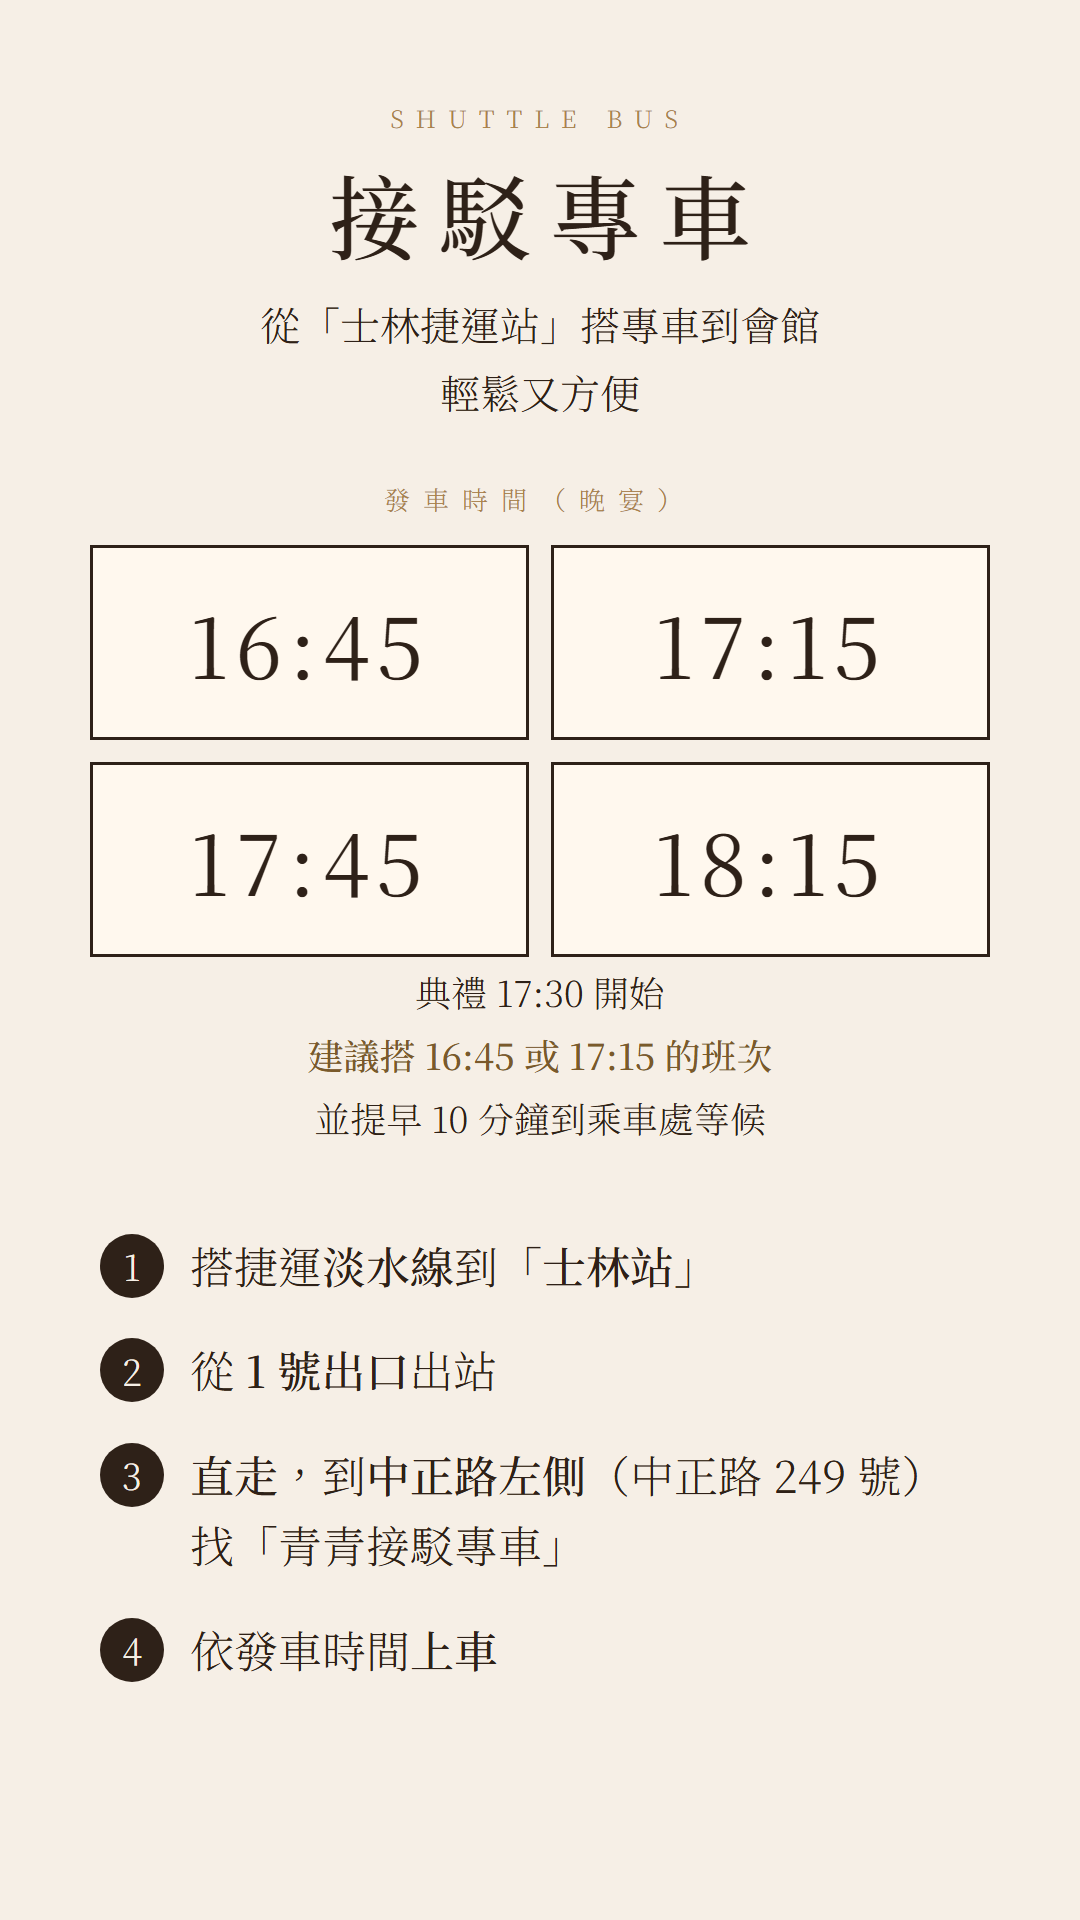
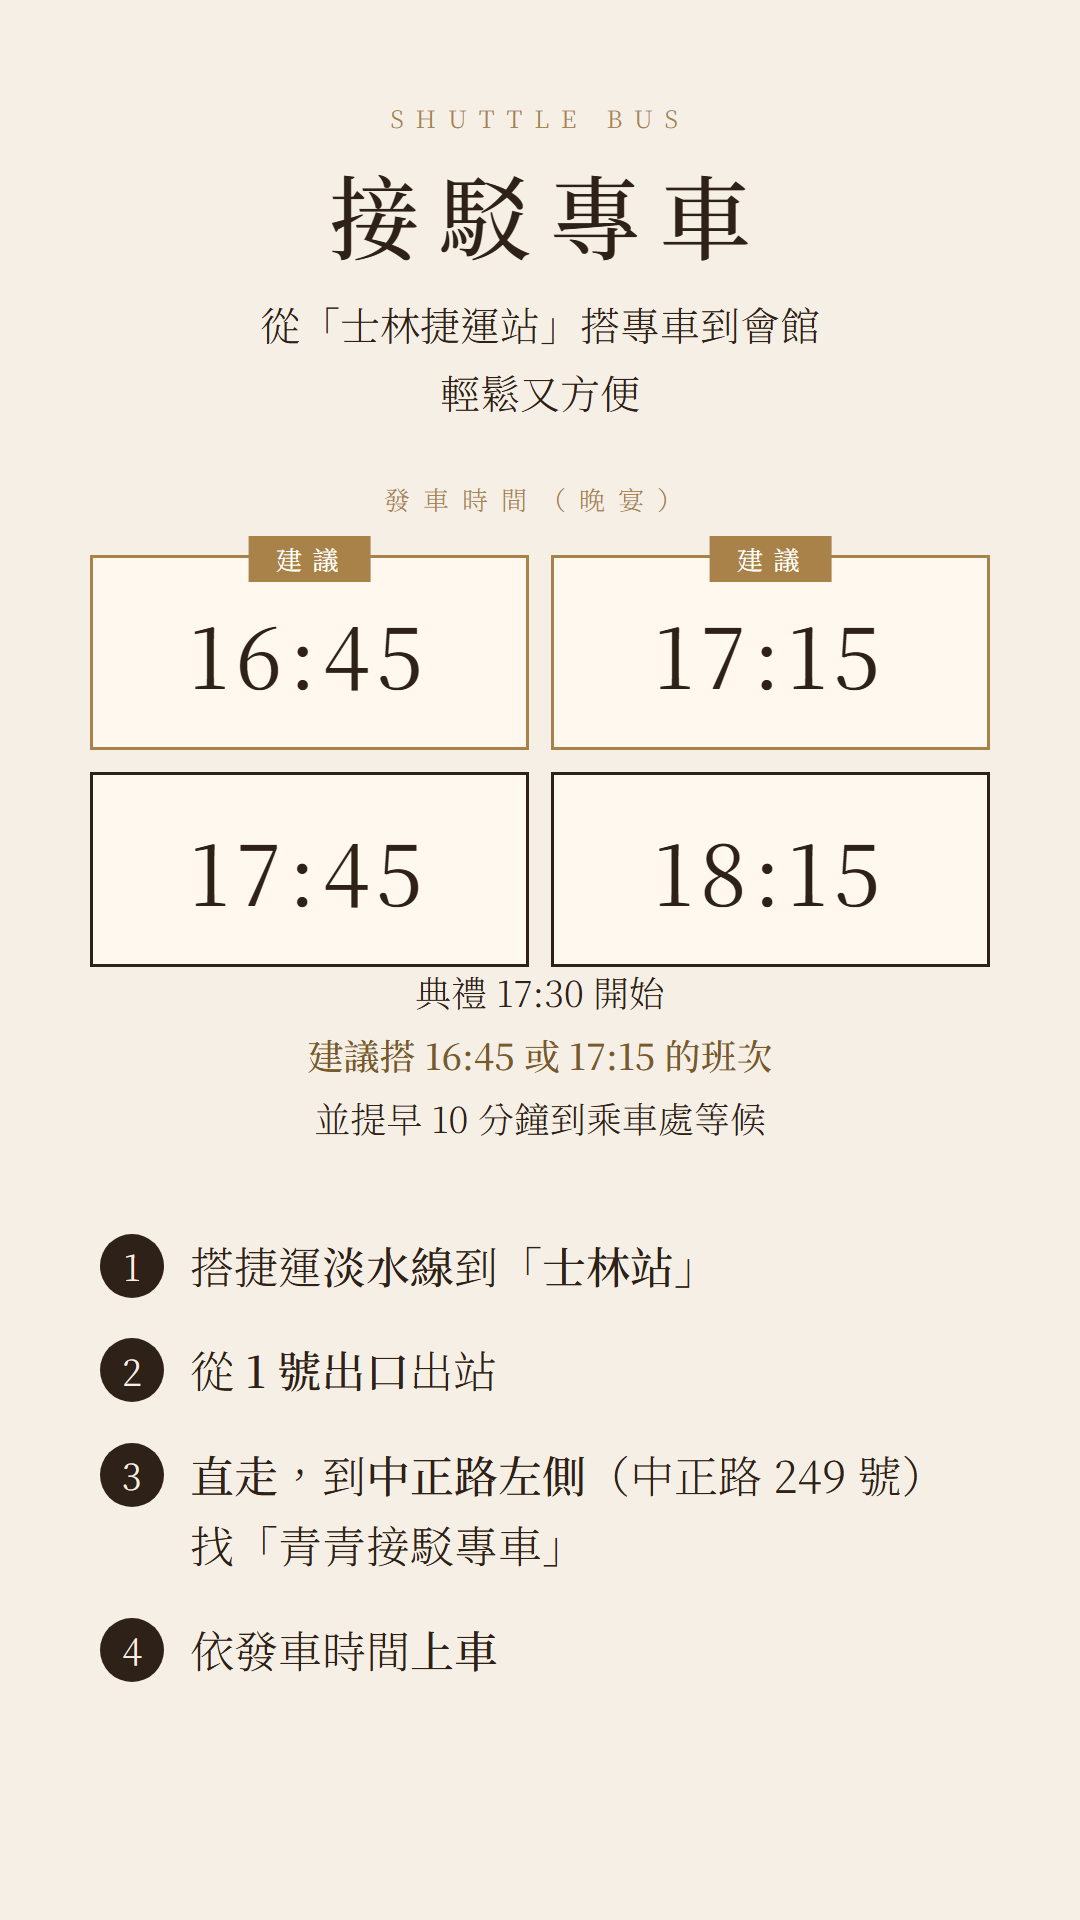
Move shuttle card below details; highlight recommended departures

diff --git a/index.html b/index.html
@@ -102,7 +102,9 @@ p{font-size:15px;letter-spacing:.06em}
 .sh-lead{font-size:18px;line-height:1.8;margin:12px 0 22px}
 .sh-label{font-size:13px;letter-spacing:.4em;color:var(--gold);margin:6px 0 12px}
 .sh-times{display:grid;grid-template-columns:1fr 1fr;gap:10px}
-.sh-times div{border:1px solid var(--ink);padding:14px 0;font-size:30px;letter-spacing:.08em;font-weight:400;font-variant-numeric:lining-nums tabular-nums;background:var(--bg)}
+.sh-times div{border:1px solid var(--ink);padding:16px 0;font-size:30px;letter-spacing:.08em;font-weight:400;font-variant-numeric:lining-nums tabular-nums;background:var(--bg)}
+.sh-times .rec{border:2px solid var(--gold);background:#fff8ee;position:relative}
+.sh-times .rec i{position:absolute;top:-11px;left:50%;transform:translateX(-50%);background:var(--gold);color:#fff;font-style:normal;font-size:12px;letter-spacing:.3em;padding:1px 12px 1px 15px;line-height:1.7}
 .sh-note{font-size:16px;line-height:1.8;margin:14px 0 26px;text-align:left}
 .sh-note b{font-weight:500;color:#7A5A2B}
 .sh-steps{list-style:none;padding:0;text-align:left;margin:0}
@@ -152,6 +154,7 @@ footer p{margin-top:10px;font-size:13px;letter-spacing:.3em;color:var(--gold)}
   <div class="btns">
     <a class="btn fill" target="_blank" rel="noopener" href="https://www.google.com/maps/search/?api=1&query=%E5%A3%AB%E6%9E%97%E9%9D%92%E9%9D%92%E9%A3%9F%E5%B0%9A%E8%8A%B1%E5%9C%92%E6%9C%83%E9%A4%A8">開啟地圖</a>
     <button class="btn" id="ics">加入行事曆</button>
+    <a class="btn" href="#shuttle">接駁專車</a>
   </div>
   <div class="rule"></div>
   <div class="eyebrow">COUNTDOWN</div>
@@ -161,6 +164,31 @@ footer p{margin-top:10px;font-size:13px;letter-spacing:.3em;color:var(--gold)}
     <div><b id="cm">–</b><span>MINS</span></div>
     <div><b id="cs">–</b><span>SECS</span></div>
   </div>
+</section>
+
+<section class="reveal" style="padding-top:8px;padding-bottom:36px">
+  <div class="shuttle" id="shuttle">
+    <div class="sh-t">接駁專車 <small>Shuttle Bus</small></div>
+    <p class="sh-lead">從「士林捷運站」搭專車到會館，<br>輕鬆又方便。</p>
+
+    <div class="sh-label">發車時間（晚宴）</div>
+    <div class="sh-times">
+      <div class="rec"><i>建議</i>16:45</div><div class="rec"><i>建議</i>17:15</div><div>17:45</div><div>18:15</div>
+    </div>
+    <p class="sh-note">典禮 17:30 開始，<b>建議搭 16:45 或 17:15 的班次</b>，並提早 10 分鐘到乘車處等候。</p>
+
+    <div class="sh-label">怎麼搭</div>
+    <ol class="sh-steps">
+      <li><span>1</span><div>搭捷運<b>淡水線</b>到<b>「士林站」</b></div></li>
+      <li><span>2</span><div>從 <b>1 號出口</b>出站</div></li>
+      <li><span>3</span><div><b>直走</b>，到<b>中正路左側</b><br>（中正路 249 號），找「青青接駁專車」</div></li>
+      <li><span>4</span><div>依發車時間上車</div></li>
+    </ol>
+    <div class="btns" style="margin-top:20px">
+      <a class="btn fill" target="_blank" rel="noopener" href="https://www.google.com/maps/search/?api=1&query=%E5%8F%B0%E5%8C%97%E5%B8%82%E5%A3%AB%E6%9E%97%E5%8D%80%E4%B8%AD%E6%AD%A3%E8%B7%AF249%E8%99%9F">開啟乘車處地圖</a>
+    </div>
+  </div>
+
 </section>
 
 <div class="photos">
@@ -184,28 +212,6 @@ footer p{margin-top:10px;font-size:13px;letter-spacing:.3em;color:var(--gold)}
     <h2>交通資訊</h2>
   </div>
 
-
-  <div class="shuttle">
-    <div class="sh-t">接駁專車 <small>Shuttle Bus</small></div>
-    <p class="sh-lead">從「士林捷運站」搭專車到會館，<br>輕鬆又方便。</p>
-
-    <div class="sh-label">發車時間（晚宴）</div>
-    <div class="sh-times">
-      <div>16:45</div><div>17:15</div><div>17:45</div><div>18:15</div>
-    </div>
-    <p class="sh-note">典禮 17:30 開始，<b>建議搭 16:45 或 17:15 的班次</b>，並提早 10 分鐘到乘車處等候。</p>
-
-    <div class="sh-label">怎麼搭</div>
-    <ol class="sh-steps">
-      <li><span>1</span><div>搭捷運<b>淡水線</b>到<b>「士林站」</b></div></li>
-      <li><span>2</span><div>從 <b>1 號出口</b>出站</div></li>
-      <li><span>3</span><div><b>直走</b>，到<b>中正路左側</b><br>（中正路 249 號），找「青青接駁專車」</div></li>
-      <li><span>4</span><div>依發車時間上車</div></li>
-    </ol>
-    <div class="btns" style="margin-top:20px">
-      <a class="btn fill" target="_blank" rel="noopener" href="https://www.google.com/maps/search/?api=1&query=%E5%8F%B0%E5%8C%97%E5%B8%82%E5%A3%AB%E6%9E%97%E5%8D%80%E4%B8%AD%E6%AD%A3%E8%B7%AF249%E8%99%9F">開啟乘車處地圖</a>
-    </div>
-  </div>
 
   <h3>自行開車 <small>Drive</small></h3>
   <ol>
